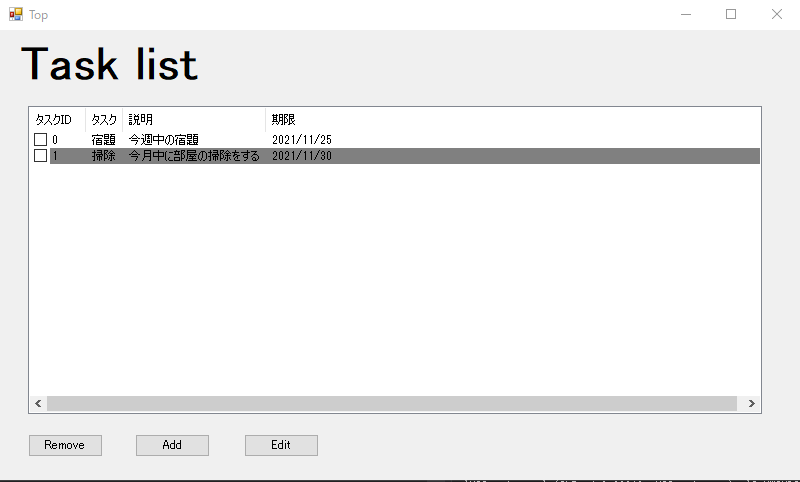
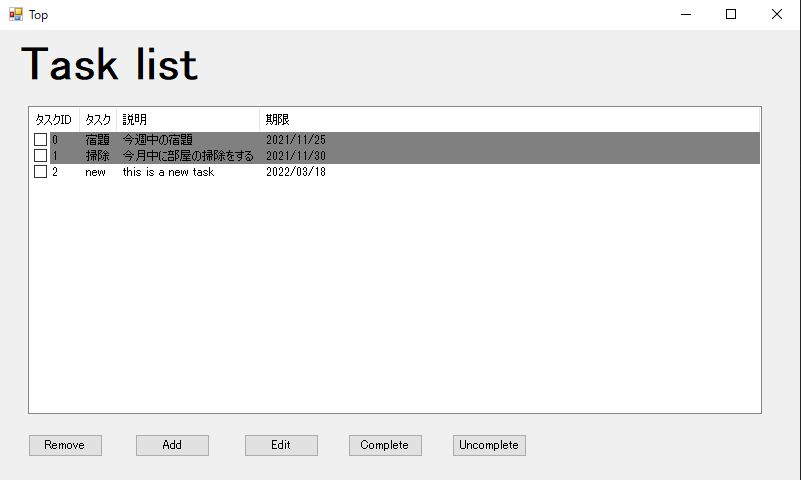
Ch7_続き

diff --git a/ch_7/VisualC#_タスク管理アプリを作る.md b/ch_7/VisualC#_タスク管理アプリを作る.md
@@ -4,9 +4,7 @@
 
 タスク名、概要、期限、完了フラグをトップページでリスト表示する。  
 そのうち、完了タスクは背景色をグレイアウトする。  
-これらのタスクは、削除、追加、編集が可能で、タスクリストの各行にはチェックボックスを設け、複数タスクの一括削除を可能とする。  
-
-
+これらのタスクは、削除、追加、編集、完了、未完了が変更可能で、タスクリストの各行にはチェックボックスを設け、複数タスクの一括削除、一括完了化、一括未完了化を可能とする。  
 
 ## 画面仕様  
 
@@ -36,6 +34,43 @@ TOP画面ではタスクID、タスク名、説明、期限が確認できるタ
 
 ![タスク編集画面](./Resources/タスク編集画面.PNG)  
 
+<br>
+
+## 処理詳細  
+
+<br>
+
+### クラス一覧  
+
+本アプリケーションで使用するクラスは以下。  
+
+| クラス名   |     概要      |
+| --- | ----------- |
+|  Top   | Top画面クラス |
+| IniFileService    | Iniファイルの読み込みを行う |
+| TasksDto    | JSONファイルからTaskクラス一覧を格納するためのクラス |
+| Task    | タスククラス。<br>id, taskName, dscription, dueDate, isDoneを持っている |
+| TaskService    | Task一覧を管理するクラス |
+| AddTask    | Task編集画面および、Task追加画面クラス |
+
+<br>
+
+### 初期化処理
+
+TOP画面の初期化時に、Iniファイルの格納場所を指定して```IniFileService```にてIniファイルを読み込む。  
+Iniファイルにはタスクファイル(JSON)の格納場所が記述してあり、取得したIniファイルの内容から、```TaskService```にてタスクファイルを読み込む。  
+```TaskService```では、タスクファイルから読み込んだタスク一覧を```TasksDto```として保持する。  
+
+![初期化処理1](./Resources/初期化処理1.PNG)  
+
+***各種ファイルの読み込みは以下のパッケージを用いる***  
+
+- Iniファイルの読み込みは[INI File Parser](https://github.com/rickyah/ini-parser)を用いる。  
+- JSONファイルの読み込みには、[Newtonsoft](https://www.newtonsoft.com/json)を用いる。  
+
+また、画面のロードイベントを追加し、```TaskService```が保持しているタスク一覧より、画面に表示するタスクリストコントローラーを生成する。  
+
+![Top画面ロード](./Resources/Top画面ロード.PNG)  
 
 ## Program tips  
 
@@ -566,4 +601,254 @@ static void Main(string[] args)
 <br>
 <br>
 
-### ラムダ式
+### ラムダ式  
+
+<br>
+
+#### デリゲート  
+
+デリゲート型は、関数を変数に格納できる仕組み。  
+デリゲート型はクラスのように宣言する。  
+
+```CSharp
+delegate 戻り値の型 デリゲート型名(引数);
+```  
+
+デリゲート型を使用する時は、デリゲート型の戻り値と引数が同じ担っている関数を```new```の際に指定することで、指定した関数が格納される。  
+以下のプログラムは戻り値voidで引数がint型の値1個を持つデリゲート型を定義し、Programクラス内で同じ型、同じ引数の関数をデリゲートとして使用する事で、デリゲート名に引数を渡す形で使用している。  
+
+```CSharp
+// デリゲート型の定義
+delegate void someDelegate(int a);
+
+class Program
+{
+    static void Main(string[] args)
+    {
+        // デリゲート型の変数を用意。
+        // インスタンス生成時に代入する関数を指定
+        someDelegate someDelegate = new someDelegate(SomeDelegateMethod);
+        // デリゲート名で呼び出し
+        someDelegate(100);
+    }
+
+    // デリゲートに格納する関数
+    static void SomeDelegateMethod(int data)
+    {
+        Console.WriteLine($"SomeDelegateMethod({data})が呼ばれました。");
+    }
+}
+```  
+
+デリゲートには複数のメソッドを代入することができる。  
+代入には```+=```演算子を使う。  
+以下は```someDelegate```型に```SomeDelegateMethod```、```SomeDelegateMethod2```、```SomeDelegateMethod3```メソッドを代入することで、```someDelegate(100);```で呼び出した際に追加した３つのメソッドが全て呼び出されている。  
+
+```CSharp
+delegate void someDelegate(int a);
+
+class Program
+{
+    static void Main(string[] args)
+    {
+        someDelegate someDelegate = new someDelegate(SomeDelegateMethod);
+        someDelegate += new someDelegate(SomeDelegateMethod2);
+        someDelegate += new someDelegate(SomeDelegateMethod3);
+        someDelegate(100);
+    }
+
+    static void SomeDelegateMethod(int data)
+    {
+        Console.WriteLine($"SomeDelegateMethod({data})が呼ばれました。");
+    }
+
+    static void SomeDelegateMethod2(int data)
+    {
+        Console.WriteLine($"SomeDelegateMethod2({data})が呼ばれました。");
+    }
+
+    static void SomeDelegateMethod3(int data)
+    {
+        Console.WriteLine($"SomeDelegateMethod3({data})が呼ばれました。");
+    }
+}
+/*
+SomeDelegateMethod(100)が呼ばれました。
+SomeDelegateMethod2(100)が呼ばれました。
+SomeDelegateMethod3(100)が呼ばれました。
+*/
+```  
+
+***テスト***  
+ユーザが名前を入力すると、以下のテーブルより名前を探し、テーブルに名前がある場合は、「こんにちは、○○さん」「出席番号は〇番です」
+「○○からようこそ」を表示するプログラム。  
+※ただし、「こんにちは、○○さん」「出席番号は〇番です」
+「○○からようこそ」はそれぞれ別の関数で表示すること。  
+
+| 出席番号   |     名前      |　出身  |
+| --- | ----------- | --- |
+| 1    | 山田太郎 | 滋賀 |
+| 2    | 高木次郎 | 京都 |
+| 3    | 鈴木三郎 | 大阪 |
+| 4    | 田中花子 | 奈良 |
+| 5    | 石田森子 | 兵庫 |  
+
+<br>
+
+#### ラムダ式  
+
+delegateでは、delegateの型に合った関数を定義し代入する、という方法が取られていたが、毎回delegate型を定義して関数を増やしていてはコードがどんどん大きくなってしまう。  
+
+そこで、もっと手軽に関数を定義し呼び出せる形にしたものがラムダ式である。  
+
+```CSharp
+(引数) => { 処理 };
+```
+
+例えば、ラムダ式を使ってある数が10より大きいかどうかを判定する処理は以下のように記述する。  
+
+```CSharp
+(int n) => { return n > 10; };
+```  
+
+例えば、以下のようなdelegateが定義されている場合、それに代入するラムダ式は以下のように記述できる。  
+
+```CSharp
+delegate bool Pred(int n);
+
+Pred p = (int n) => { return n > 10; };
+```  
+
+***テスト***  
+delegateのときに書いたプログラムをラムダ式を使って書き直す。  
+
+<br>
+
+#### FuncとAction  
+
+デリゲートは、デリゲート型を定義する必要があるが、必要な処理が追加されるたびにデリゲート型を宣言するのは冗長である。  
+そこで、デリゲート型の宣言を不要にしたものがFunc型とAction型である。  
+
+***Action***型は戻り値がvoid型の処理を、***Func***型は戻り値のある処理を宣言できる。  
+
+```CSharp
+Func<引数1の型, 引数2の型, 引数3の型..., 戻り値の型>
+Action<引数1の型, 引数2の型, 引数3の型...>
+```  
+
+以下は、```GetRightStr```と```GetLeftStr```をそれぞれFuncを用いて変数に格納して呼び出している例である。
+
+```CSharp
+static void Main(string[] args)
+{
+    string str = "This is a pen.";
+    int len = 4;
+
+    Func<string, int, string> func = GetLeftStr; 
+    Console.WriteLine($"左から{len}文字: {func(str, len)}");
+
+    func = GetRightStr; 
+    Console.WriteLine($"右から{len}文字: {func(str, len)}");
+}
+
+static string GetLeftStr(string str, int len)
+{
+    string ret = str.Substring(0, len);
+    return ret;
+}
+
+static string GetRightStr(string str, int len)
+{
+    int startIndex = str.Length - len;
+
+    string ret = str.Substring(startIndex, len);
+    return ret;
+}
+```  
+
+また、ラムダ式を用いてFuncまたはActionに渡す事も可能である。  
+以下は、```Person```クラスにおいて、```Action```型のメンバ変数を保持し、```DoAction```関数にてその関数を呼び出している。  
+こうすることで、```Person```クラスの```DoAction```関数を実行した時の処理内容を```Person```クラスの外で定義することができる。  
+
+```CSharp  
+public class Person
+{
+    public string Name { get; set; }
+    public int Age { get; set; }
+    public string Country { get; set; }
+
+    public Action<string> action { get; set; }
+
+    public void DoAction()
+    {
+        action("Jump");
+    }
+}
+
+class Program
+{
+    static void Main(string[] args)
+    {
+        Person john = new Person();
+        john.Name = "John";
+        john.Age = 18;
+        john.Country = "US";
+        john.action = (string actionString) =>
+        {
+            Console.WriteLine($"Hi, I'm {john.Name}. I'm good at {actionString}.");
+        };
+
+        Person tokuda = new Person();
+        tokuda.Name = "Tokuda";
+        tokuda.Age = 30;
+        tokuda.Country = "JP";
+        tokuda.action = (string actionString) =>
+        {
+            Console.WriteLine($"こんにちは、 {tokuda.Name}です。 私は {actionString}が得意です。");
+        };
+
+        john.DoAction();
+        tokuda.DoAction();
+    }
+
+```
+
+***テスト***  
+
+- これまで書いたプログラムをFuncまたはActionを使った形に変更する。  
+
+- 上記のPersonクラスにモーニングルーチンを格納するメンバ変数を追加し、それらを順に実行するようにしたい。  
+<<ヒント>>  
+
+1. PersonクラスにAction型のListを作成するとともに、モーニングルーチンを順に実行する関数を用意する。  
+この時のAction型はstring型の引数を取るようにしておく。  
+2. Main関数でPersonクラスのインスタンスを生成した後、モーニングルーチンを格納するためのListをインスタンス化する。インスタンス化したリストのAdd関数にモーニングルーチンを```Console.WriteLine()```するラムダ式を指定する。  
+3. 最後に、生成したPersonクラスのモーニングルーチンを順に実行する関数を実行する。  
+
+<br>
+<br>
+
+### 匿名型  
+
+匿名型はclass定義をその場で簡易的に定義できる構文である。  
+
+```CSharp
+var person = new { Name = "Taro", Id = 0};
+Console.WriteLine(person.Name);     // Taro
+Console.WriteLine(person.Id);       // 0
+```  
+
+その場でしか使わないが、その場ではクラスとして使用したいようなプログラムがある場面で、ファイルを作成してクラスを記述して、、、は面倒である。そのような場面で、その場で使う共通のクラスを匿名型として記述したりする。  
+
+***テスト***  
+以下の生徒テーブルを匿名型でリストとして作成し、全生徒の出席番号、名前、出身地をそれぞれ表示するプログラムを作成する。  
+
+| 出席番号   |     名前      |　出身  |
+| --- | ----------- | --- |
+| 1    | 山田太郎 | 滋賀 |
+| 2    | 高木次郎 | 京都 |
+| 3    | 鈴木三郎 | 大阪 |
+| 4    | 田中花子 | 奈良 |
+| 5    | 石田森子 | 兵庫 |  
+
+
